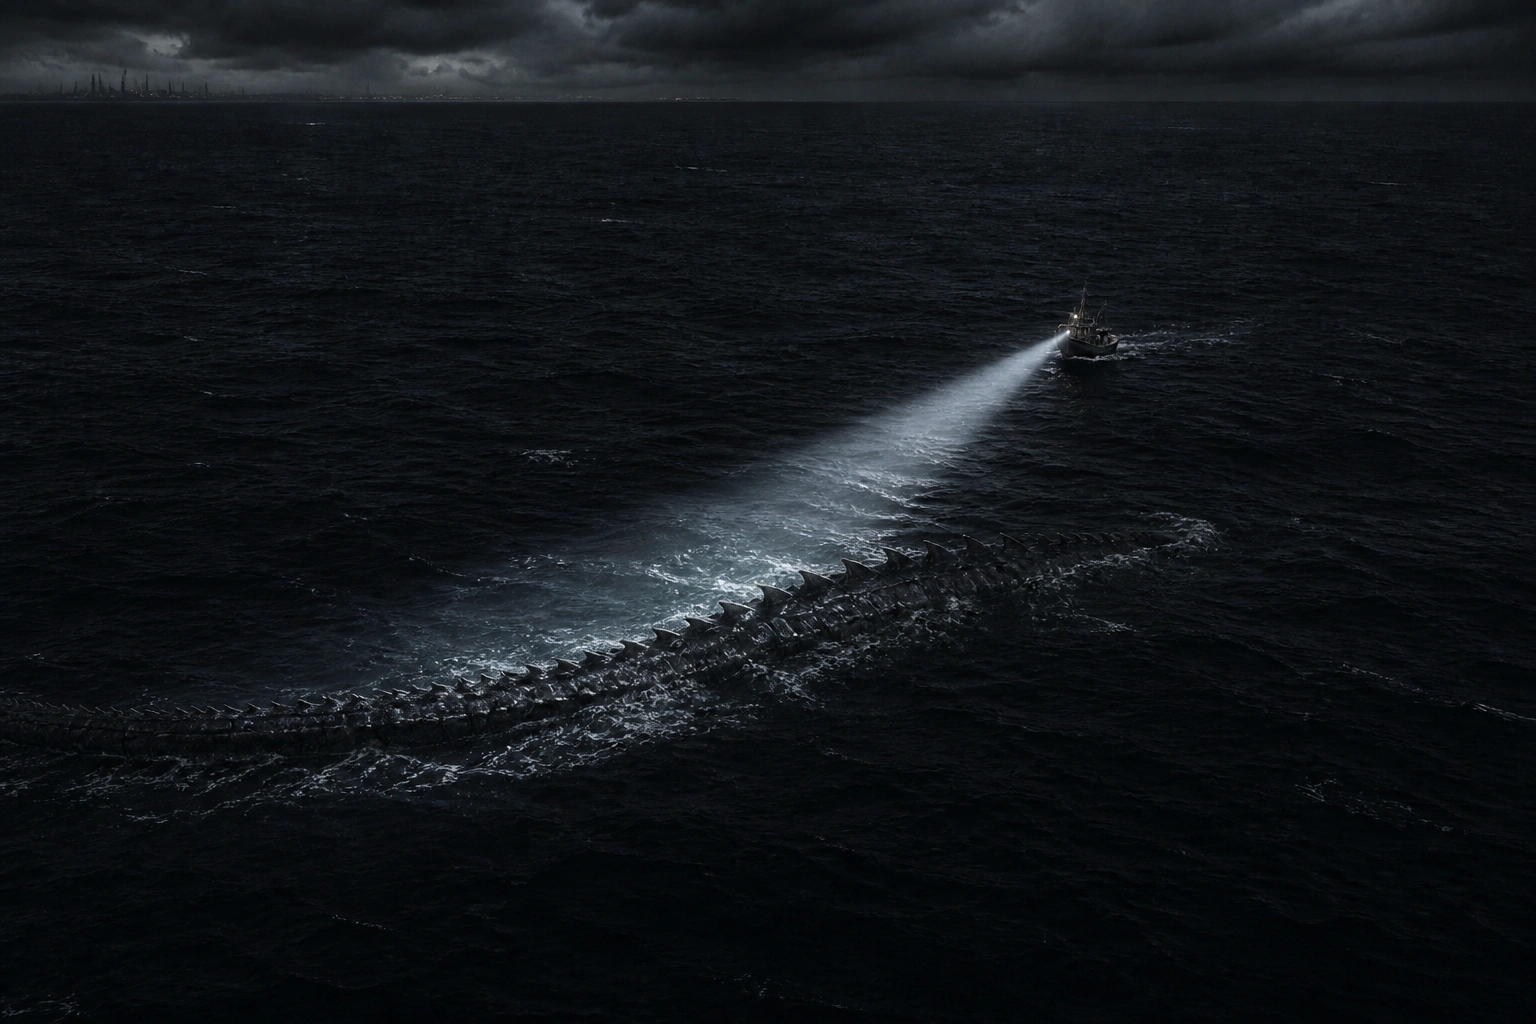
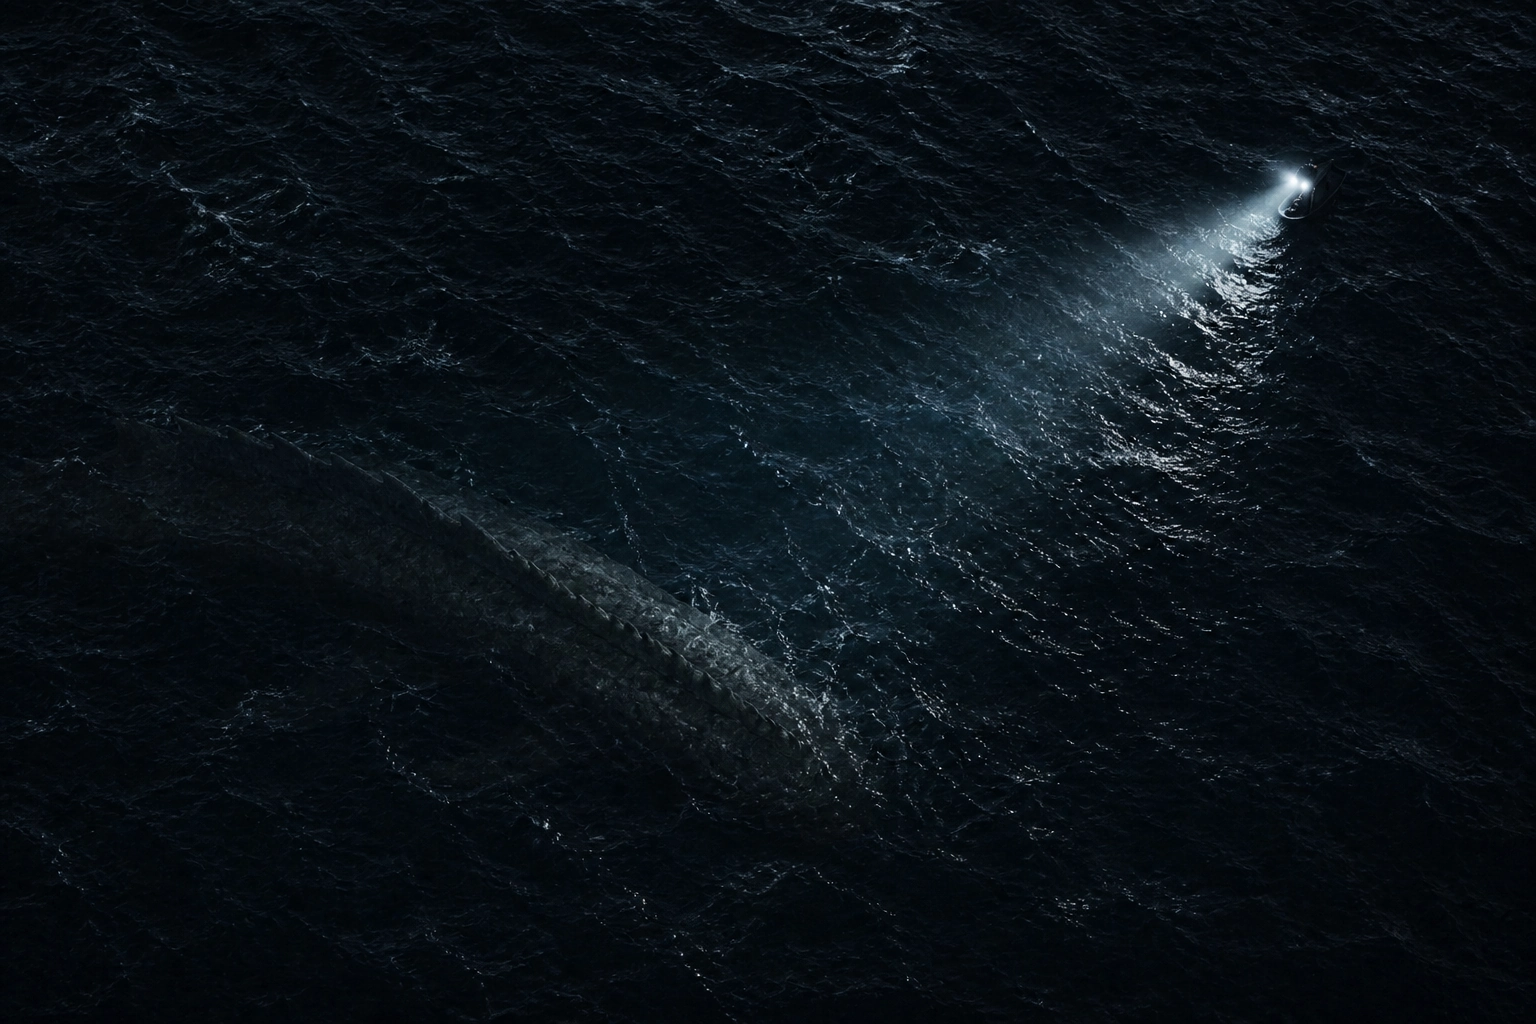
Restore the nadir MALUM camera and run the full water shader on a lossless plate

diff --git a/lib/collections.ts b/lib/collections.ts
@@ -78,16 +78,15 @@ export const collections: Collection[] = [
       "The newest LEMARQUE collection. Scroll through every look, swipe to shop each piece.",
     longDescription:
       "MALUM is the newest chapter for LEMARQUE: gowns cut like armor, cashmere outerwear closed with shark-tooth hardware, and leather goods built to outlast trend cycles. Scroll through every look, swipe right to shop the piece, and tap through to its own page for the full story.",
-    // Aerial night plate: tiny boat inset from the top-right, storm clouds
-    // and a faint far coast, searchlight down-left over a sea-serpent.
-    // The WebGPU hero samples this still and refracts the beam with waves.
+    // Nadir night plate: tiny boat upper-right, searchlight down-left
+    // over a colossal sea-serpent. No horizon — looking straight down.
     heroImage: {
       src: "/collections/malum/hero/malum-hero-night.webp",
       alt: "MALUM Collection | Aerial night sea, a tiny boat over a colossal sea serpent",
       width: 1536,
       height: 1024,
     },
-    heroImagePosition: "74% 18%",
+    heroImagePosition: "82% 22%",
     // Same generated scene with the LEMARQUE mark and collection name
     // burned in, sized to the 1200x630 Open Graph standard - chat apps
     // (WhatsApp, Telegram, iMessage, ...) only ever show this flat image,

diff --git a/lib/vgpu/malum-ocean.ts b/lib/vgpu/malum-ocean.ts
@@ -13,12 +13,12 @@ export type MalumOceanOptions = {
   onError?: (error: unknown) => void;
 };
 
-export const MALUM_PLATE_SRC = "/collections/malum/hero/malum-hero-night.webp?v=5";
+export const MALUM_PLATE_SRC = "/collections/malum/hero/malum-hero-night.png?v=6";
 
 const WIND_ANGLE = 2.44;
 const WIND_SPEED = 16;
-const BOAT_UV: readonly [number, number] = [0.74, 0.17];
-const BEAM_DIR: readonly [number, number] = [-0.58, 0.81];
+const BOAT_UV: readonly [number, number] = [0.83, 0.19];
+const BEAM_DIR: readonly [number, number] = [-0.53, 0.85];
 
 const TEXTURE_USAGE = 0x02 | 0x04 | 0x10;
 
@@ -69,7 +69,7 @@ export function startMalumOcean(
     boatUv: [...BOAT_UV] as [number, number],
     beamDir: [...BEAM_DIR] as [number, number],
     windAngle: WIND_ANGLE,
-    quality: reduced ? 0.65 : 1,
+    quality: reduced ? 0.8 : 1,
   };
 
   const startLoop = () => {
@@ -111,7 +111,7 @@ export function startMalumOcean(
       }
 
       canvasSurface = surface(gpu, canvas, {
-        dpr: reduced ? [1, 1.25] : [1, 1.75],
+        dpr: reduced ? [1, 1.5] : [1, 2],
         alphaMode: "opaque",
       });
       params.texel = [
